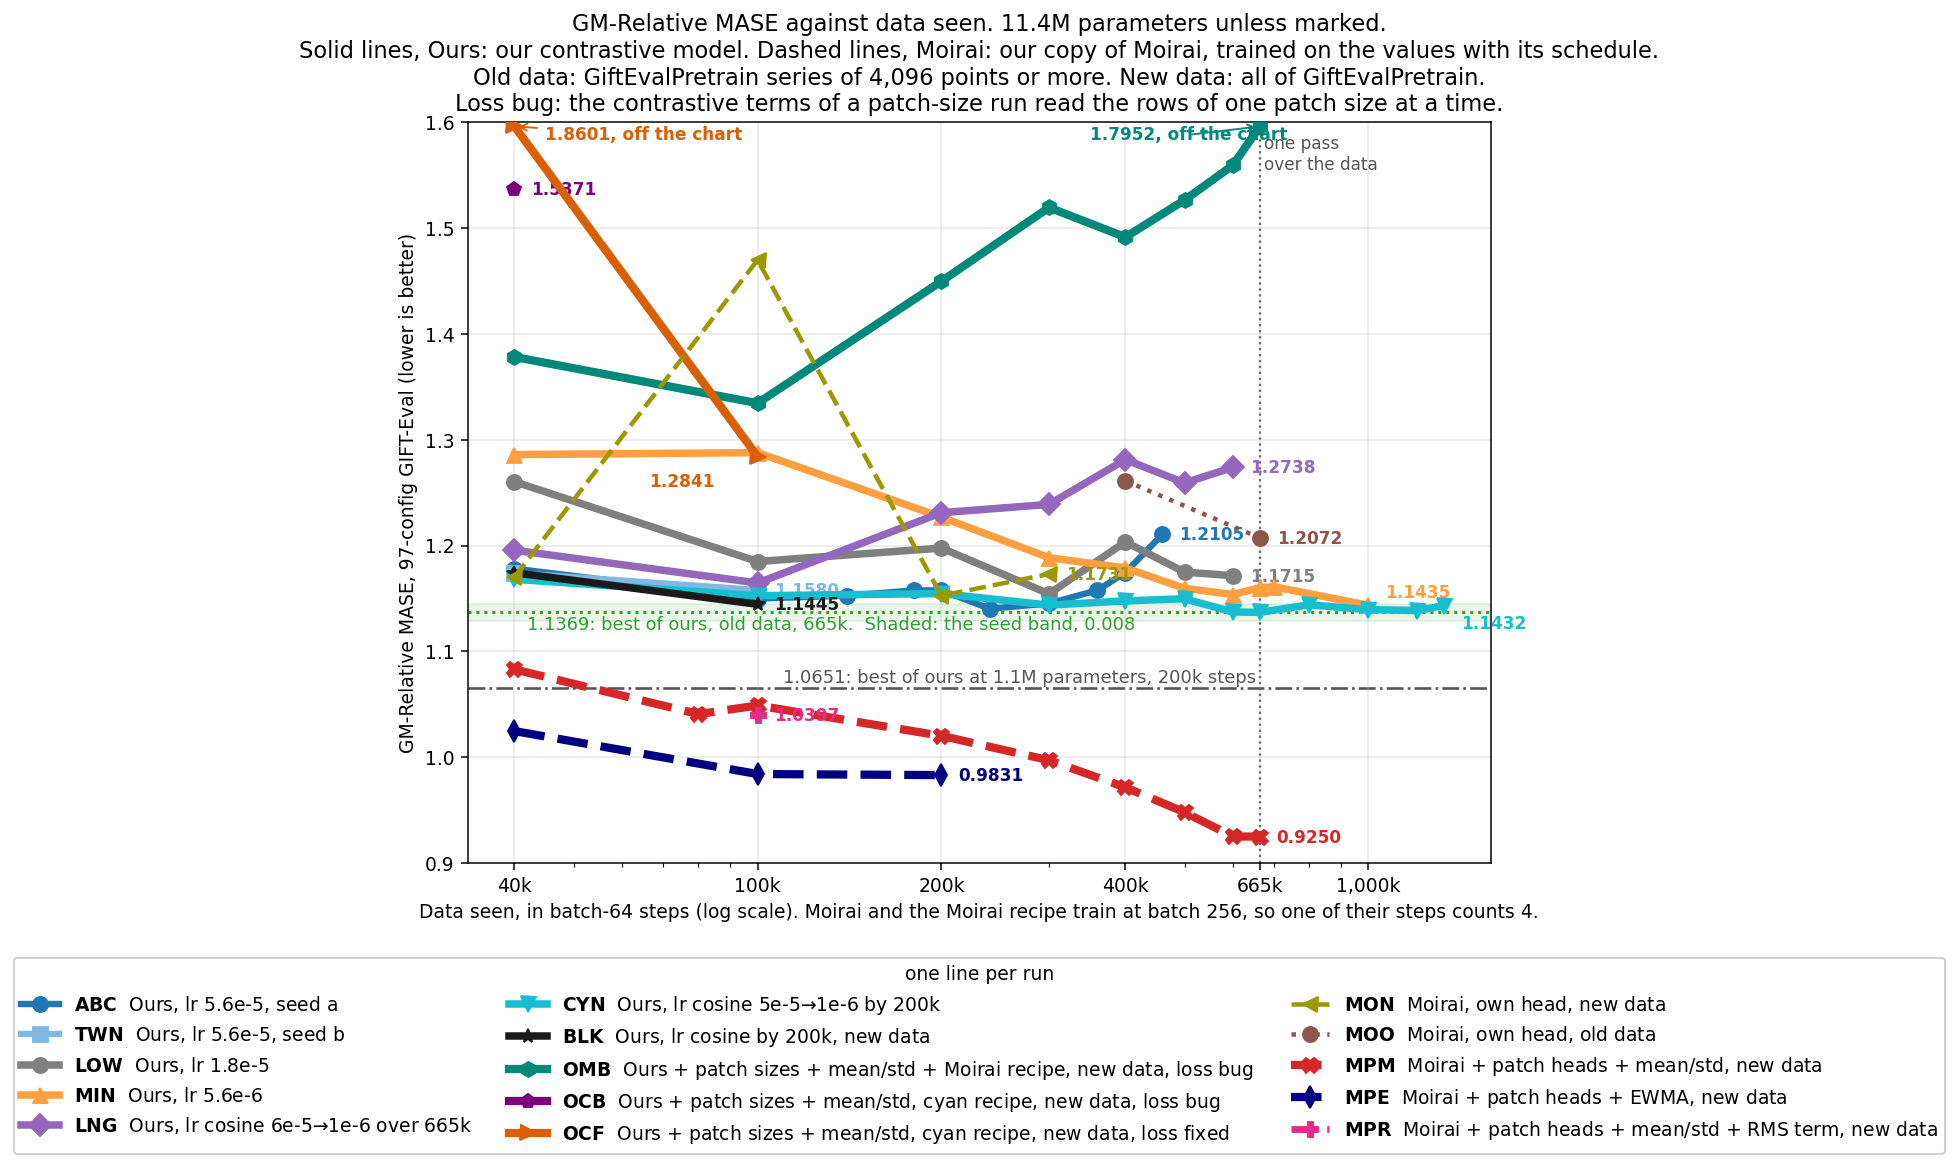
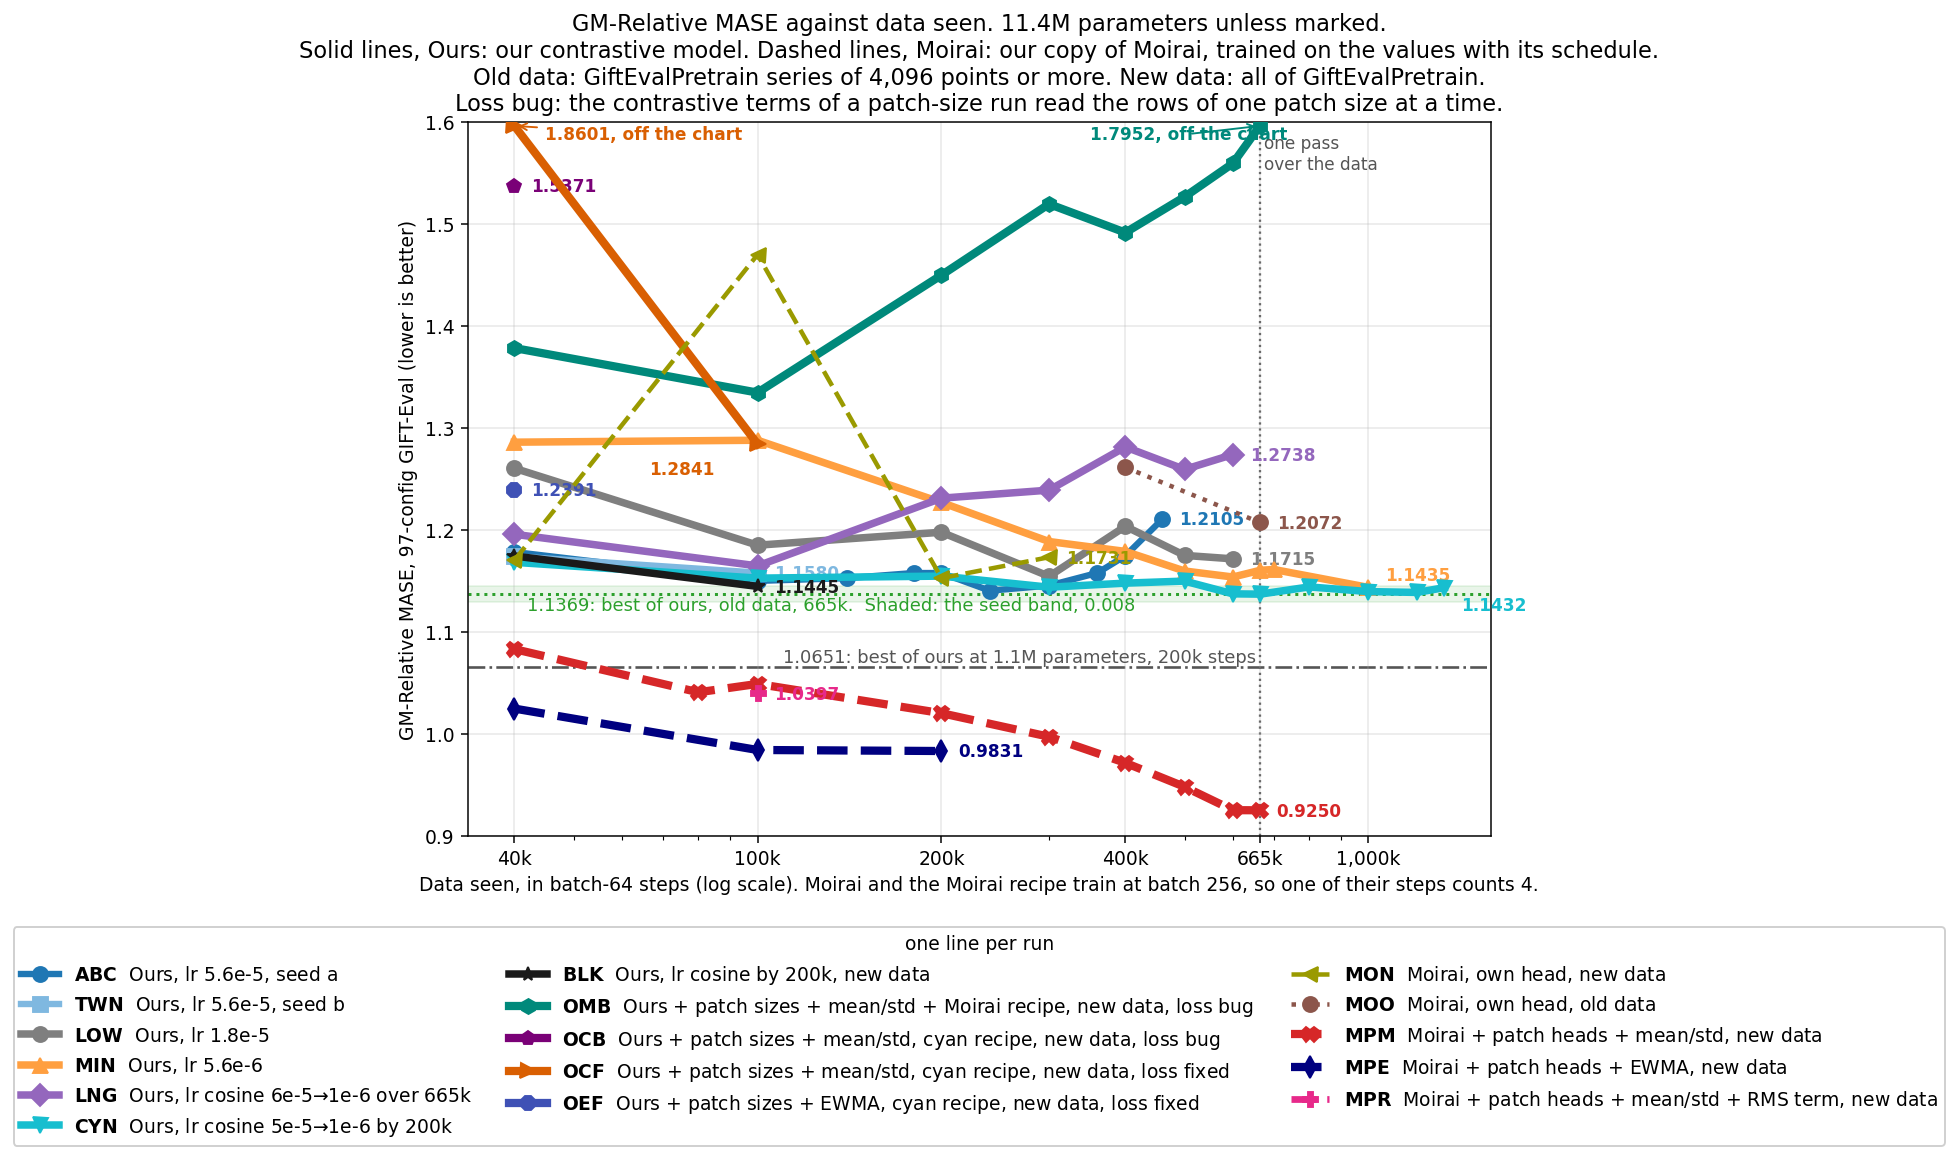
exp(#412): OEF (#412oe2) scores 1.2391 at 40k

diff --git a/reports/2026-09-06_moirai_small_size/scripts/plot_radar_419.py b/reports/2026-09-06_moirai_small_size/scripts/plot_radar_419.py
@@ -17,6 +17,7 @@ NEW_DATA = [
     ("cf412om", "ours412om_", "Ours + patch sizes + mean/std + Moirai recipe, loss bug"),
     ("cf412oc", "ours412oc_", "Ours + patch sizes + mean/std, cyan recipe, loss bug"),
     ("cf412oc2", "ours412oc2_", "Ours + patch sizes + mean/std, cyan recipe, loss fixed"),
+    ("cf412oe2", "ours412oe2_", "Ours + patch sizes + EWMA, cyan recipe, loss fixed"),
     ("cf421f_moirai_native", "moirai421f_native", "Moirai + patch heads + mean/std"),
     ("cf421ew_moirai_native", "moirai421ew_native", "Moirai + patch heads + EWMA"),
     ("cf421n_moirai_native", "moirai421n_native", "Moirai + patch heads + mean/std + RMS term"),

diff --git a/reports/2026-09-06_moirai_small_size/scripts/plot_gm_rates.py b/reports/2026-09-06_moirai_small_size/scripts/plot_gm_rates.py
@@ -33,6 +33,7 @@ RUNS = [
     ("cf412om", "Ours + patch sizes + mean/std + Moirai recipe, new data, loss bug", 4.4, "h"),
     ("cf412oc", "Ours + patch sizes + mean/std, cyan recipe, new data, loss bug", 4.4, "p"),
     ("cf412oc2", "Ours + patch sizes + mean/std, cyan recipe, new data, loss fixed", 4.4, ">"),
+    ("cf412oe2", "Ours + patch sizes + EWMA, cyan recipe, new data, loss fixed", 4.4, "8"),
     # Moirai: our copy of Moirai, trained on the values with its schedule.
     ("cf419_moirai_native", "Moirai, own head, new data",                2.4, "<"),
     ("cf415_moirai_native", "Moirai, own head, old data",                   2.4, "o"),
